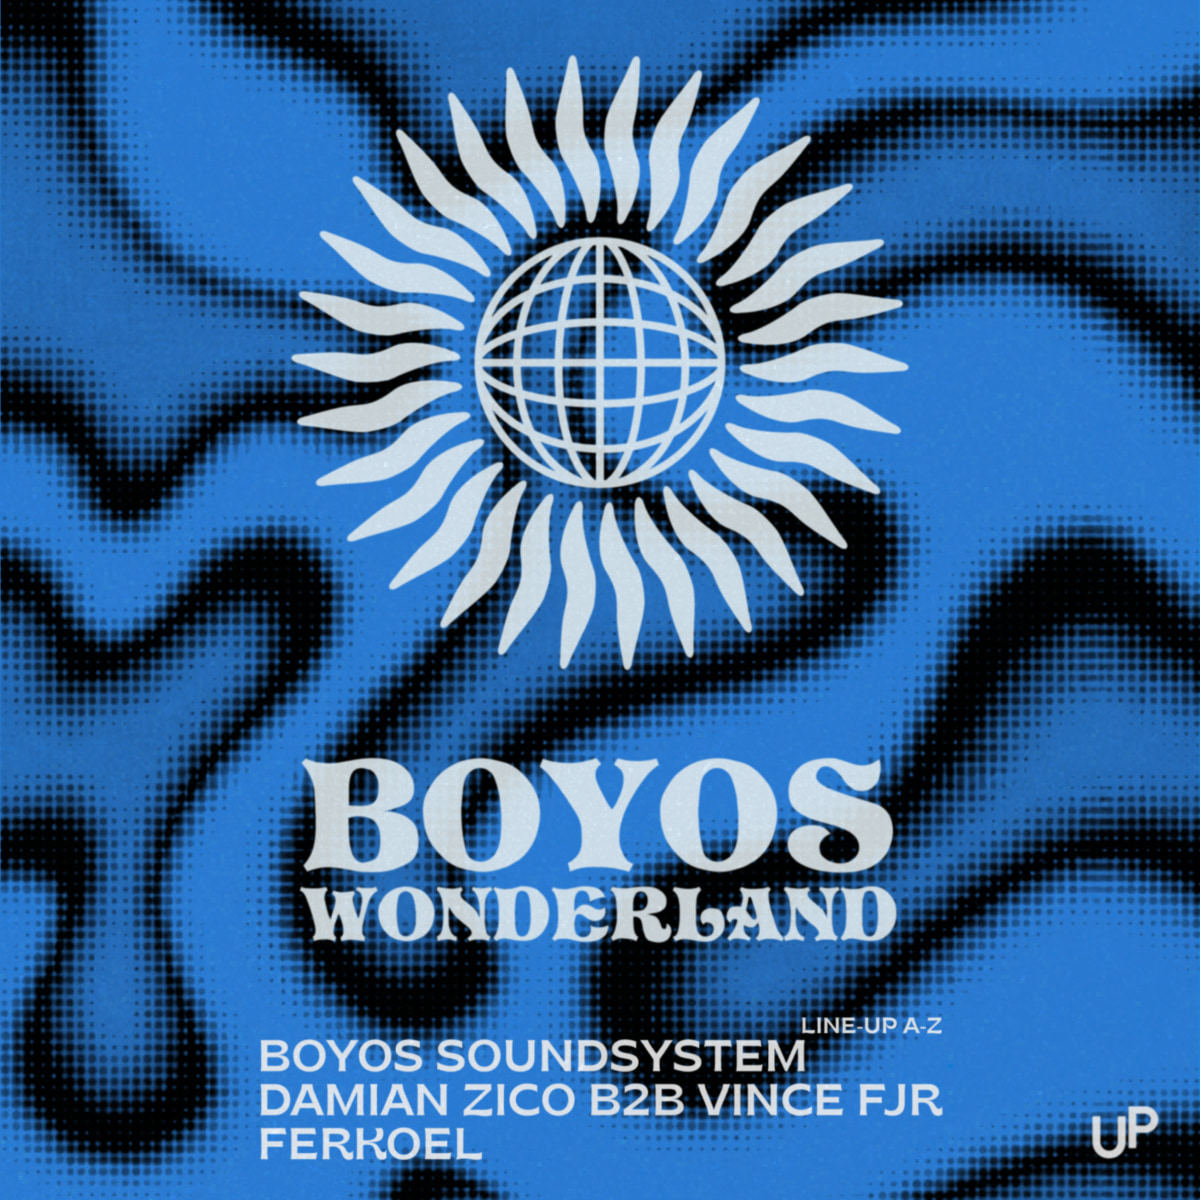
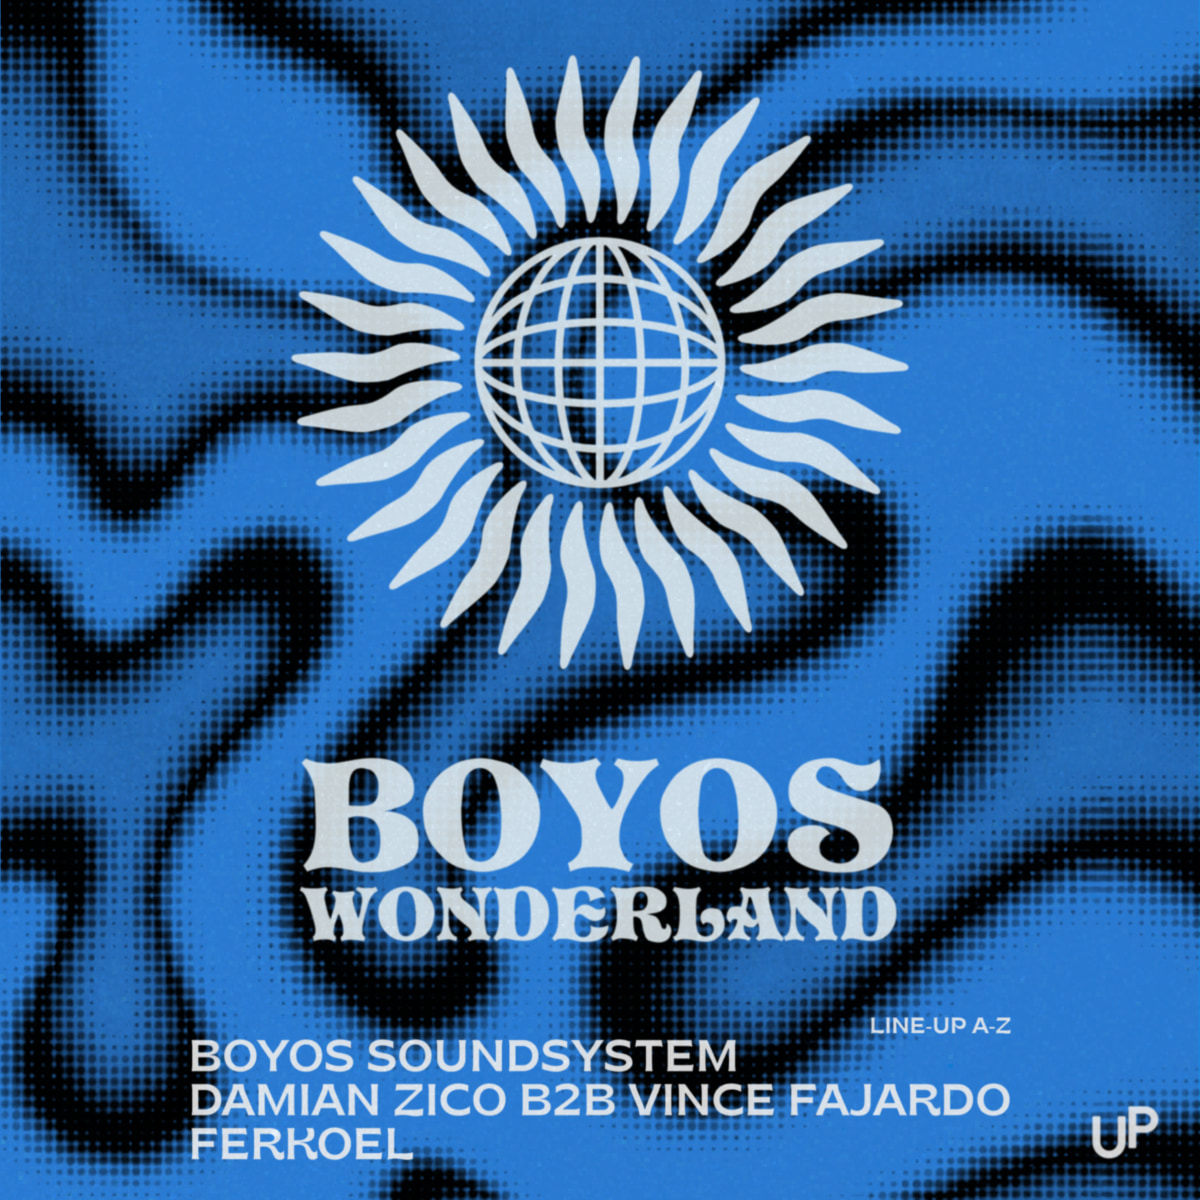
fix: correct Club UP artist links and billing

Changed region(s): [[0.1542, 0.8633, 0.8633, 0.9867], [0.6783, 0.8325, 0.8633, 0.8633]]

diff --git a/pages/wonderland/[slug].js b/pages/wonderland/[slug].js
@@ -5,6 +5,7 @@ import gsap from 'gsap'
 import { ScrollTrigger } from 'gsap/dist/ScrollTrigger'
 import Head from 'next/head'
 import Image from 'next/image'
+import Link from 'next/link'
 import { generateNextSeo } from 'next-seo/pages'
 import ButtonLink from '../../components/ui/ButtonLink'
 import Reveal from '../../components/ui/Reveal'
@@ -63,21 +64,35 @@ function LineupAccordion({ artists }) {
             </button>
             <div
               className={`overflow-hidden transition-[max-height,opacity] duration-500 ${
-                active ? 'max-h-28 opacity-100' : 'max-h-0 opacity-0'
+                active ? 'max-h-48 opacity-100' : 'max-h-0 opacity-0'
               }`}
             >
               <div className="flex flex-wrap gap-x-4 gap-y-2 p-5 pt-3">
-                {artist.links.map((link) => (
-                  <a
-                    key={link.url}
-                    href={link.url}
-                    target="_blank"
-                    rel="noopener noreferrer"
-                    className="text-xs font-bold uppercase tracking-[0.12em] text-black/60 underline decoration-black/25 underline-offset-4 transition hover:text-black focus-visible:outline-2 focus-visible:outline-offset-4 focus-visible:outline-black"
-                  >
-                    {link.label} ↗
-                  </a>
-                ))}
+                {artist.links.map((link) => {
+                  const external = /^https?:\/\//.test(link.url)
+                  const className =
+                    'text-xs font-bold uppercase tracking-[0.12em] text-black/60 underline decoration-black/25 underline-offset-4 transition hover:text-black focus-visible:outline-2 focus-visible:outline-offset-4 focus-visible:outline-black'
+
+                  return external ? (
+                    <a
+                      key={link.url}
+                      href={link.url}
+                      target="_blank"
+                      rel="noopener noreferrer"
+                      className={className}
+                    >
+                      {link.label} ↗
+                    </a>
+                  ) : (
+                    <Link
+                      key={link.url}
+                      href={link.url}
+                      className={className}
+                    >
+                      {link.label}
+                    </Link>
+                  )
+                })}
               </div>
             </div>
           </article>
@@ -352,9 +367,9 @@ export default function WonderlandEventPage({ event, community }) {
 
       <section
         ref={storySectionRef}
-        className="bg-[#07090d] px-6 py-32 md:px-10 md:py-48"
+        className="bg-[#07090d] px-6 py-20 md:px-10 md:py-32 lg:py-48"
       >
-        <div className="mx-auto grid max-w-6xl gap-16 lg:grid-cols-[minmax(0,0.92fr)_minmax(0,1.08fr)] lg:gap-24">
+        <div className="mx-auto grid max-w-6xl gap-12 md:gap-16 lg:grid-cols-[minmax(0,0.92fr)_minmax(0,1.08fr)] lg:gap-24">
           <div ref={storyMediaRef} className="h-fit">
             <div className="relative aspect-[16/9] overflow-hidden border border-white/10 bg-[var(--club-up-blue)]">
               <Image
@@ -375,11 +390,11 @@ export default function WonderlandEventPage({ event, community }) {
             <h2 className="mt-7 max-w-3xl text-[clamp(3rem,6vw,6rem)] font-black uppercase leading-[0.88] tracking-[-0.07em]">
               House is a thread, not a limitation.
             </h2>
-            <div className="mt-20 space-y-24 lg:space-y-0">
+            <div className="mt-12 md:mt-16 lg:mt-20">
               {event.body.slice(2).map((paragraph) => (
                 <article
                   key={paragraph}
-                  className="flex min-h-[42vh] items-center border-t border-white/10 py-14 first:border-t-0 lg:min-h-[58vh]"
+                  className="flex items-center border-t border-white/10 py-8 first:border-t-0 md:py-10 lg:min-h-[58vh] lg:py-14"
                 >
                   <p className="max-w-2xl text-[clamp(1.35rem,2.7vw,2.4rem)] font-medium leading-[1.42] tracking-[-0.03em] text-white/72">
                     {paragraph}

diff --git a/__tests__/wonderland-event-page.test.tsx b/__tests__/wonderland-event-page.test.tsx
@@ -7,7 +7,10 @@ import type {
   WonderlandPage as WonderlandPageData,
 } from '../data/contentTypes'
 import { wonderlandPageContent } from '../data/wonderland'
-import { resolveWonderlandEvent } from '../lib/wonderlandEvents'
+import {
+  getWonderlandEventBySlug,
+  resolveWonderlandEvent,
+} from '../lib/wonderlandEvents'
 import Home, { getStaticProps as getHomeStaticProps } from '../pages/index'
 import WonderlandOverviewPage, {
   getStaticProps as getWonderlandStaticProps,
@@ -255,6 +258,57 @@ describe('Wonderland event page', () => {
     expectSafeExternalLink(
       screen.getByRole('link', { name: /Artist Two Instagram/i }),
       event.lineup[1].links[0].url
+    )
+  })
+
+  it('keeps internal artist pages local and opens socials safely', () => {
+    const event = getWonderlandEventBySlug(
+      'club-up-september-2026'
+    )
+
+    expect(event).not.toBeNull()
+    render(<WonderlandEventPage event={event!} community={community} />)
+
+    const boyosButton = screen.getByRole('button', {
+      name: 'Boyos Soundsystem',
+    })
+    const boyosPanel = boyosButton.closest('article')
+    const soundsystemPage = within(boyosPanel as HTMLElement).getByRole(
+      'link',
+      { name: 'Soundsystem page' }
+    )
+
+    expect(soundsystemPage).toHaveAttribute('href', '/soundsystem')
+    expect(soundsystemPage).not.toHaveAttribute('target')
+    expect(soundsystemPage).not.toHaveAttribute('rel')
+
+    const b2bButton = screen.getByRole('button', {
+      name: 'Damian Zico B2B Vince Fajardo',
+    })
+    fireEvent.click(b2bButton)
+    expect(b2bButton).toHaveAttribute('aria-expanded', 'true')
+
+    const expectedExternalLinks = [
+      ['Boyos Instagram', 'https://www.instagram.com/boyos.soundsystem/'],
+      ['Boyos SoundCloud', 'https://soundcloud.com/boyos_soundsystem'],
+      ['Damian Zico Instagram', 'https://www.instagram.com/damianzico_/'],
+      ['Damian Zico SoundCloud', 'https://soundcloud.com/damianzico'],
+      ['Vince Fajardo Instagram', 'https://www.instagram.com/vince_fjr/'],
+      ['Vince Fajardo SoundCloud', 'https://soundcloud.com/inceajardo'],
+      ['Ferkoel Instagram', 'https://www.instagram.com/_ferkoel/'],
+      ['Ferkoel SoundCloud', 'https://soundcloud.com/ferkoel'],
+    ] as const
+
+    expectedExternalLinks.forEach(([label, href]) => {
+      expectSafeExternalLink(
+        screen.getByRole('link', { name: new RegExp(label) }),
+        href
+      )
+    })
+
+    const b2bPanel = b2bButton.closest('article')
+    expect(within(b2bPanel as HTMLElement).getAllByRole('link')).toHaveLength(
+      4
     )
   })
 

diff --git a/__tests__/wonderland-events.test.ts b/__tests__/wonderland-events.test.ts
@@ -98,9 +98,21 @@ describe('Wonderland events', () => {
     )
     expect(clubUpContent.lineup.map((artist) => artist.name)).toEqual([
       'Boyos Soundsystem',
-      'Damian Zico B2B Vince FJR',
+      'Damian Zico B2B Vince Fajardo',
       'Ferkoel',
     ])
+    expect(
+      clubUpContent.lineup
+        .flatMap((artist) => artist.links)
+        .filter((link) => link.url.includes('soundcloud.com'))
+        .map((link) => link.url)
+    ).toEqual([
+      'https://soundcloud.com/boyos_soundsystem',
+      'https://soundcloud.com/damianzico',
+      'https://soundcloud.com/inceajardo',
+      'https://soundcloud.com/ferkoel',
+    ])
+    expect(JSON.stringify(clubUpContent)).not.toContain('Vince FJR')
     expect(clubUpContent.tickets.url).toBe(
       'https://kring.stager.co/shop/default/events/111668271'
     )
@@ -191,9 +203,16 @@ describe('Wonderland events', () => {
           'https://www.boyoscollective.nl/images/og/wonderland-club-up-september-2026-1x1.jpg',
         ],
         performer: [
-          expect.objectContaining({ name: 'Boyos Soundsystem' }),
           expect.objectContaining({
-            name: 'Damian Zico B2B Vince FJR',
+            name: 'Boyos Soundsystem',
+            sameAs: expect.arrayContaining([
+              'https://www.boyoscollective.nl/soundsystem',
+              'https://www.instagram.com/boyos.soundsystem/',
+              'https://soundcloud.com/boyos_soundsystem',
+            ]),
+          }),
+          expect.objectContaining({
+            name: 'Damian Zico B2B Vince Fajardo',
           }),
           expect.objectContaining({ name: 'Ferkoel' }),
         ],
@@ -207,6 +226,9 @@ describe('Wonderland events', () => {
       })
     )
     expect(structuredData.startDate).toContain('T23:00:00+02:00')
+    expect(event?.tickerItems).toContain(
+      'Damian Zico B2B Vince Fajardo'
+    )
   })
 
   it('omits image markup when an event has no gallery images configured', () => {

diff --git a/lib/wonderlandEventStructuredData.ts b/lib/wonderlandEventStructuredData.ts
@@ -2,6 +2,9 @@ import type { WonderlandEvent } from '../data/contentTypes'
 
 const SITE_URL = 'https://www.boyoscollective.nl'
 
+const resolvePublicUrl = (url: string) =>
+  url.startsWith('/') ? `${SITE_URL}${url}` : url
+
 export const buildWonderlandEventStructuredData = (
   event: WonderlandEvent
 ) => {
@@ -49,7 +52,7 @@ export const buildWonderlandEventStructuredData = (
     performer: event.lineup.map((artist) => ({
       '@type': 'PerformingGroup',
       name: artist.name,
-      sameAs: artist.links.map((link) => link.url),
+      sameAs: artist.links.map((link) => resolvePublicUrl(link.url)),
     })),
     description: event.description,
     ...(images.length > 0 ? { image: images } : {}),

diff --git a/data/contentTypes.ts b/data/contentTypes.ts
@@ -52,7 +52,7 @@ export type WonderlandEventArtist = {
   name: string
   links: {
     label: string
-    url: ExternalUrl
+    url: ExternalUrl | InternalHref
   }[]
 }
 
